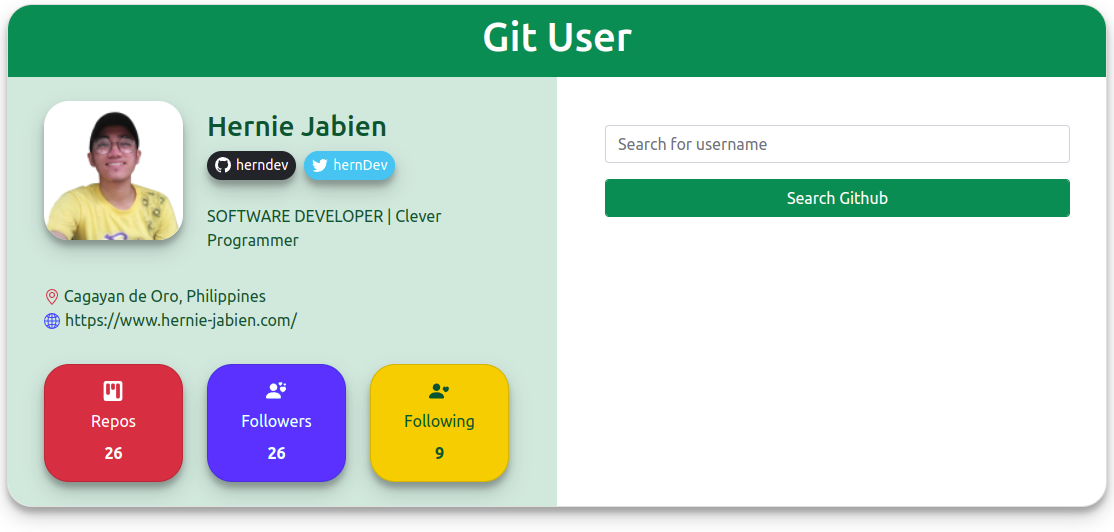
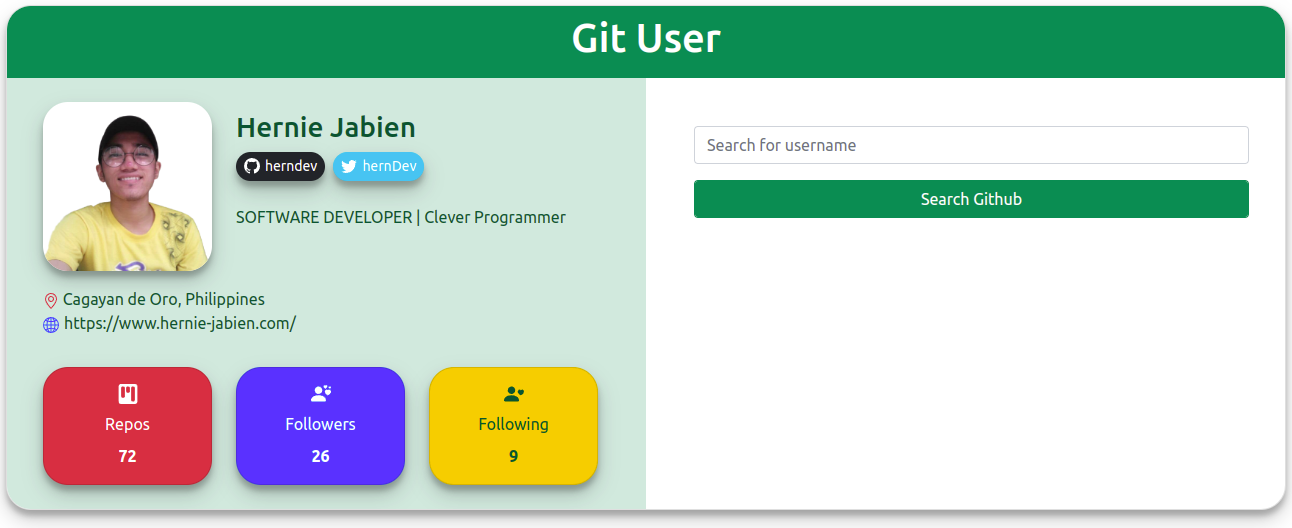
Updated

diff --git a/src/App.js b/src/App.js
@@ -25,20 +25,6 @@ function App() {
 
   return (
     <div className="App">
-      {/* <header className="App-header"> */}
-      {/* <img src={logo} className="App-logo" alt="logo" />
-        <p>
-          Edit <code>src/App.js</code> and save to reload.
-        </p>
-        <a
-          className="App-link"
-          href="https://reactjs.org"
-          target="_blank"
-          rel="noopener noreferrer"
-        >
-          Learn React
-        </a> */}
-      {/* </header> */}
       <div className="content container my-5">
         <div className="card mini-card crv-25 mx-2">
           <div className="row">
@@ -194,31 +180,6 @@ function App() {
                     )}
                   </div>
 
-                  {/* <div className="mt-3">
-                    <div className="display-centered-spacebetween">
-                      <span className="bg-dark text-white py-2 mini-card px-3 display-centery crv-25">
-                        <svg
-                          xmlns="http://www.w3.org/2000/svg"
-                          width="20"
-                          height="20"
-                          fill="currentColor"
-                          className="bi bi-github imr-5"
-                          viewBox="0 0 16 16"
-                        >
-                          <path d="M8 0C3.58 0 0 3.58 0 8c0 3.54 2.29 6.53 5.47 7.59.4.07.55-.17.55-.38 0-.19-.01-.82-.01-1.49-2.01.37-2.53-.49-2.69-.94-.09-.23-.48-.94-.82-1.13-.28-.15-.68-.52-.01-.53.63-.01 1.08.58 1.23.82.72 1.21 1.87.87 2.33.66.07-.52.28-.87.51-1.07-1.78-.2-3.64-.89-3.64-3.95 0-.87.31-1.59.82-2.15-.08-.2-.36-1.02.08-2.12 0 0 .67-.21 2.2.82.64-.18 1.32-.27 2-.27.68 0 1.36.09 2 .27 1.53-1.04 2.2-.82 2.2-.82.44 1.1.16 1.92.08 2.12.51.56.82 1.27.82 2.15 0 3.07-1.87 3.75-3.65 3.95.29.25.54.73.54 1.48 0 1.07-.01 1.93-.01 2.2 0 .21.15.46.55.38A8.012 8.012 0 0 0 16 8c0-4.42-3.58-8-8-8z" />
-                        </svg>
-                        <a
-                          href={githubData.html_url}
-                          target="_blank"
-                          rel="noreferrer"
-                          className="text-white"
-                        >
-                          Follow On Github
-                        </a>
-                      </span>
-                    </div>
-                  </div> */}
-
                   <div className="mt-4">
                     <div className="row">
                       <div className="col-md-4">
@@ -236,7 +197,7 @@ function App() {
                           <span className="my-2">Repos</span>
 
                           <span className="font-weight-bold">
-                            {githubData.followers}
+                            {githubData.public_repos}
                           </span>
                         </div>
                       </div>
@@ -282,22 +243,6 @@ function App() {
                         </div>
                       </div>
                     </div>
-                    {/* <span className="bg-white p-3 crv-8">
-                      <svg
-                        xmlns="http://www.w3.org/2000/svg"
-                        width="24"
-                        height="24"
-                        fill="currentColor"
-                        className="bi bi-person-hearts"
-                        viewBox="0 0 16 16"
-                      >
-                        <path
-                          fillRule="evenodd"
-                          d="M11.5 1.246c.832-.855 2.913.642 0 2.566-2.913-1.924-.832-3.421 0-2.566ZM9 5a3 3 0 1 1-6 0 3 3 0 0 1 6 0Zm-9 8c0 1 1 1 1 1h10s1 0 1-1-1-4-6-4-6 3-6 4Zm13.5-8.09c1.387-1.425 4.855 1.07 0 4.277-4.854-3.207-1.387-5.702 0-4.276ZM15 2.165c.555-.57 1.942.428 0 1.711-1.942-1.283-.555-2.281 0-1.71Z"
-                        />
-                      </svg>
-                      Followers
-                    </span> */}
                   </div>
                 </div>
               )}
@@ -323,13 +268,6 @@ function App() {
             </div>
           </div>
         </div>
-
-        {/* {githubData.map((data) => {
-          <div className="">
-            <img src={githubUser.avatar_url} height="100" width="100" />
-            <p>{githubUser.name}</p>
-          </div>
-        })} */}
       </div>
     </div>
   );
